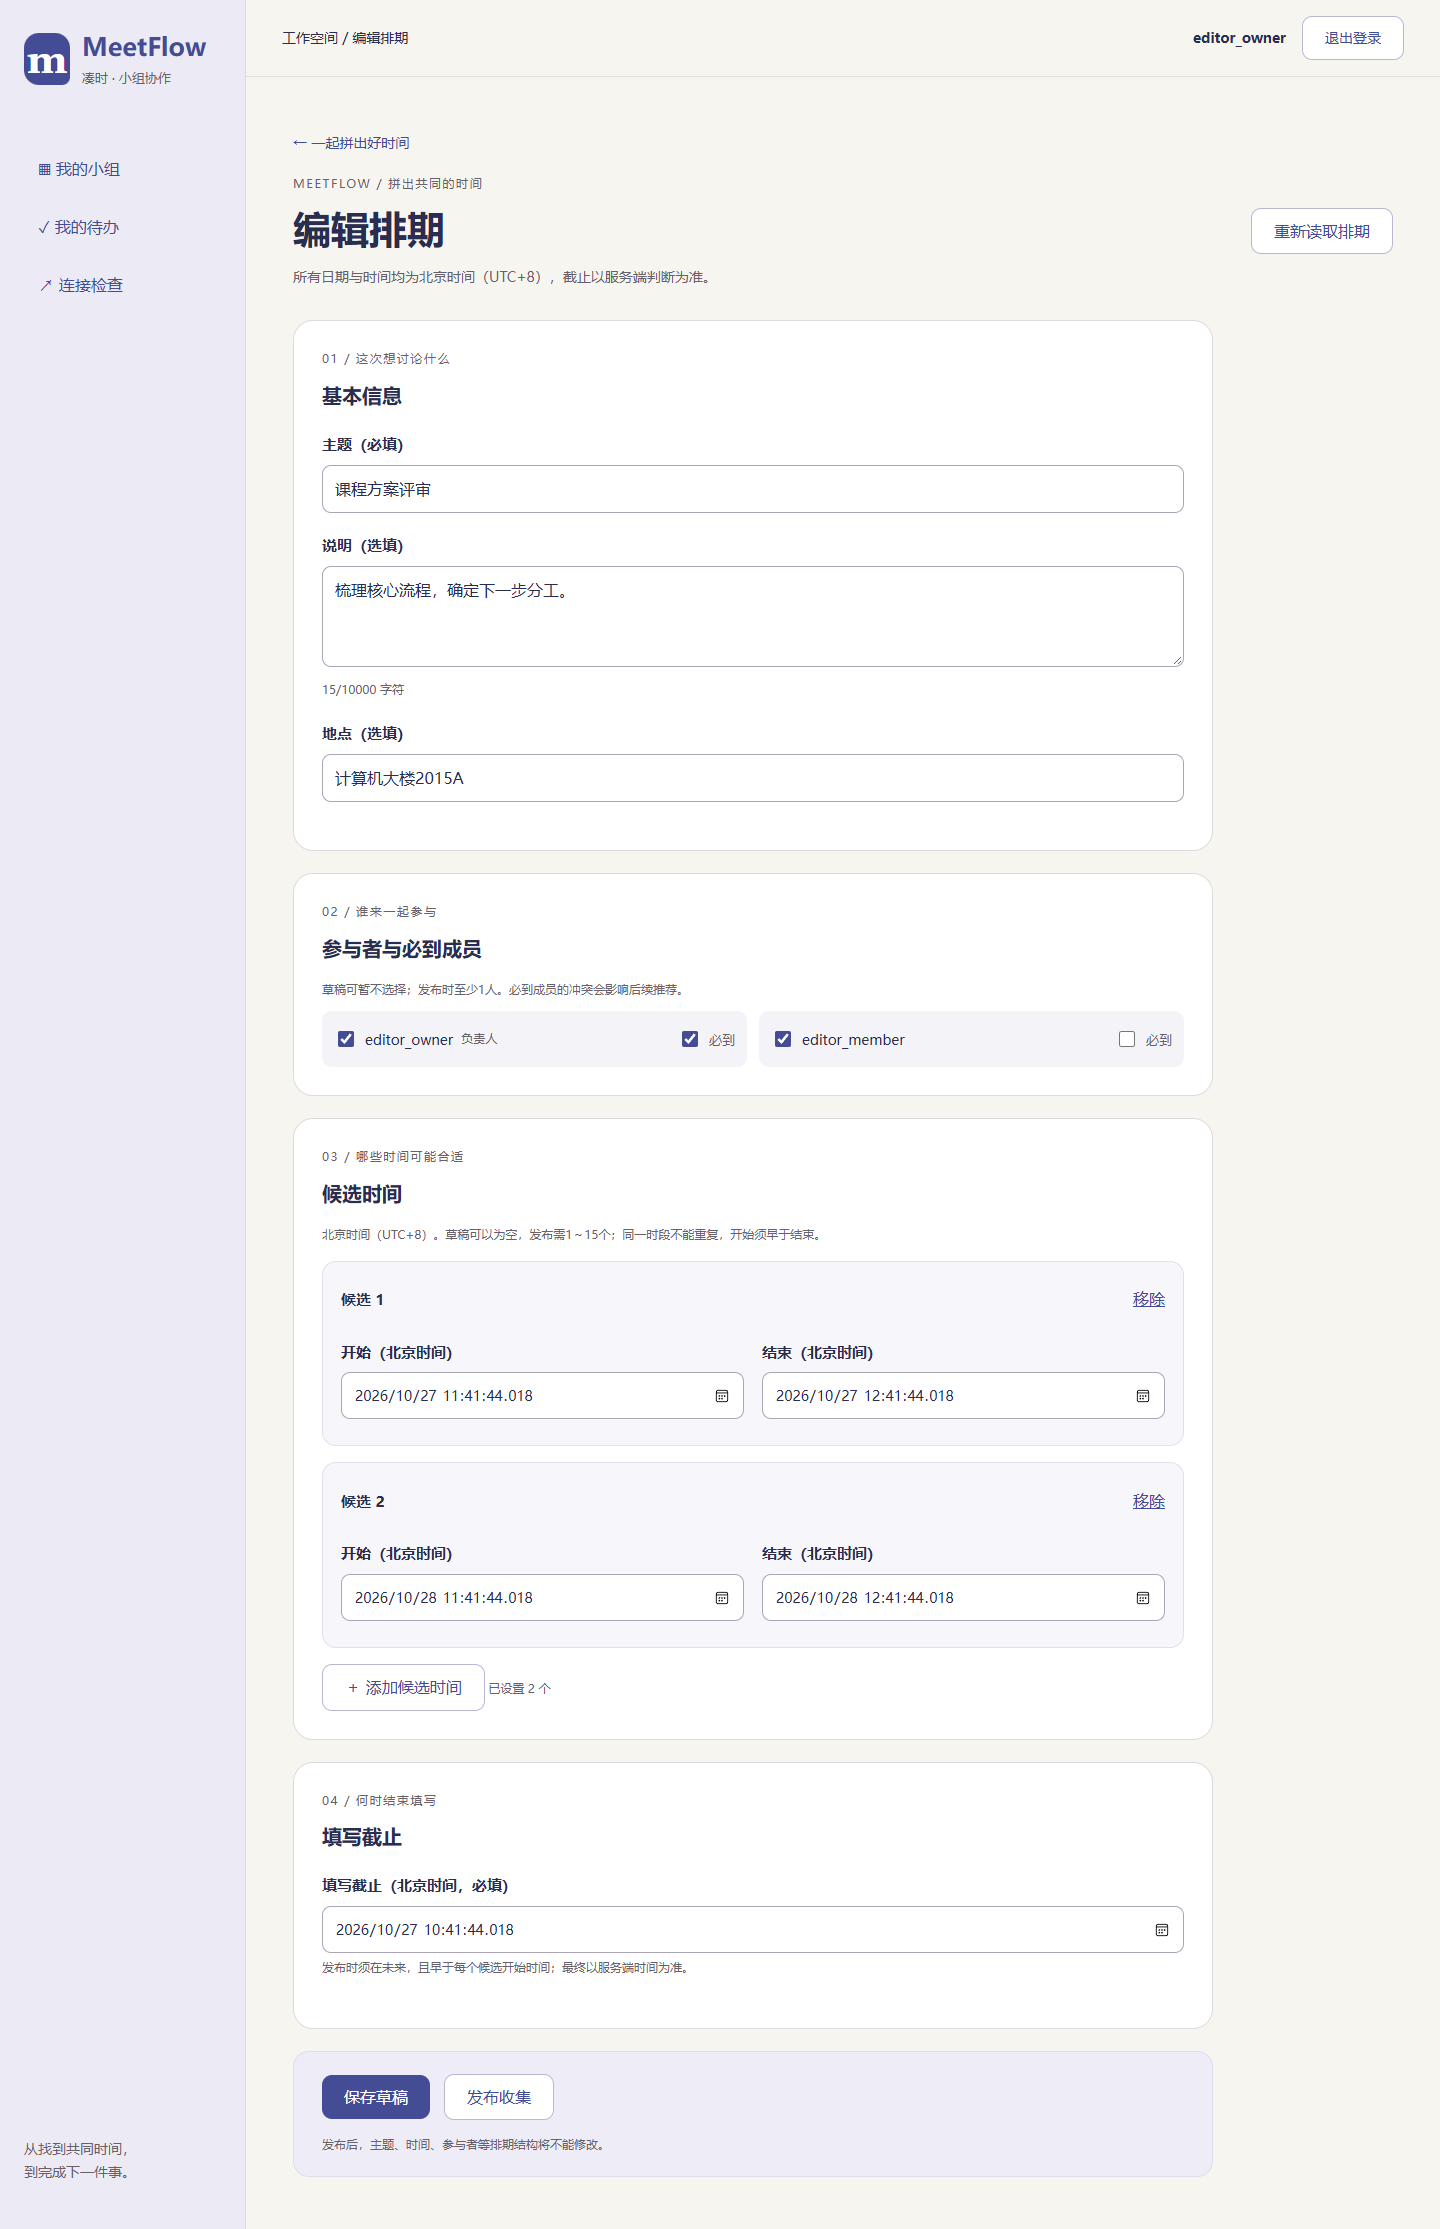
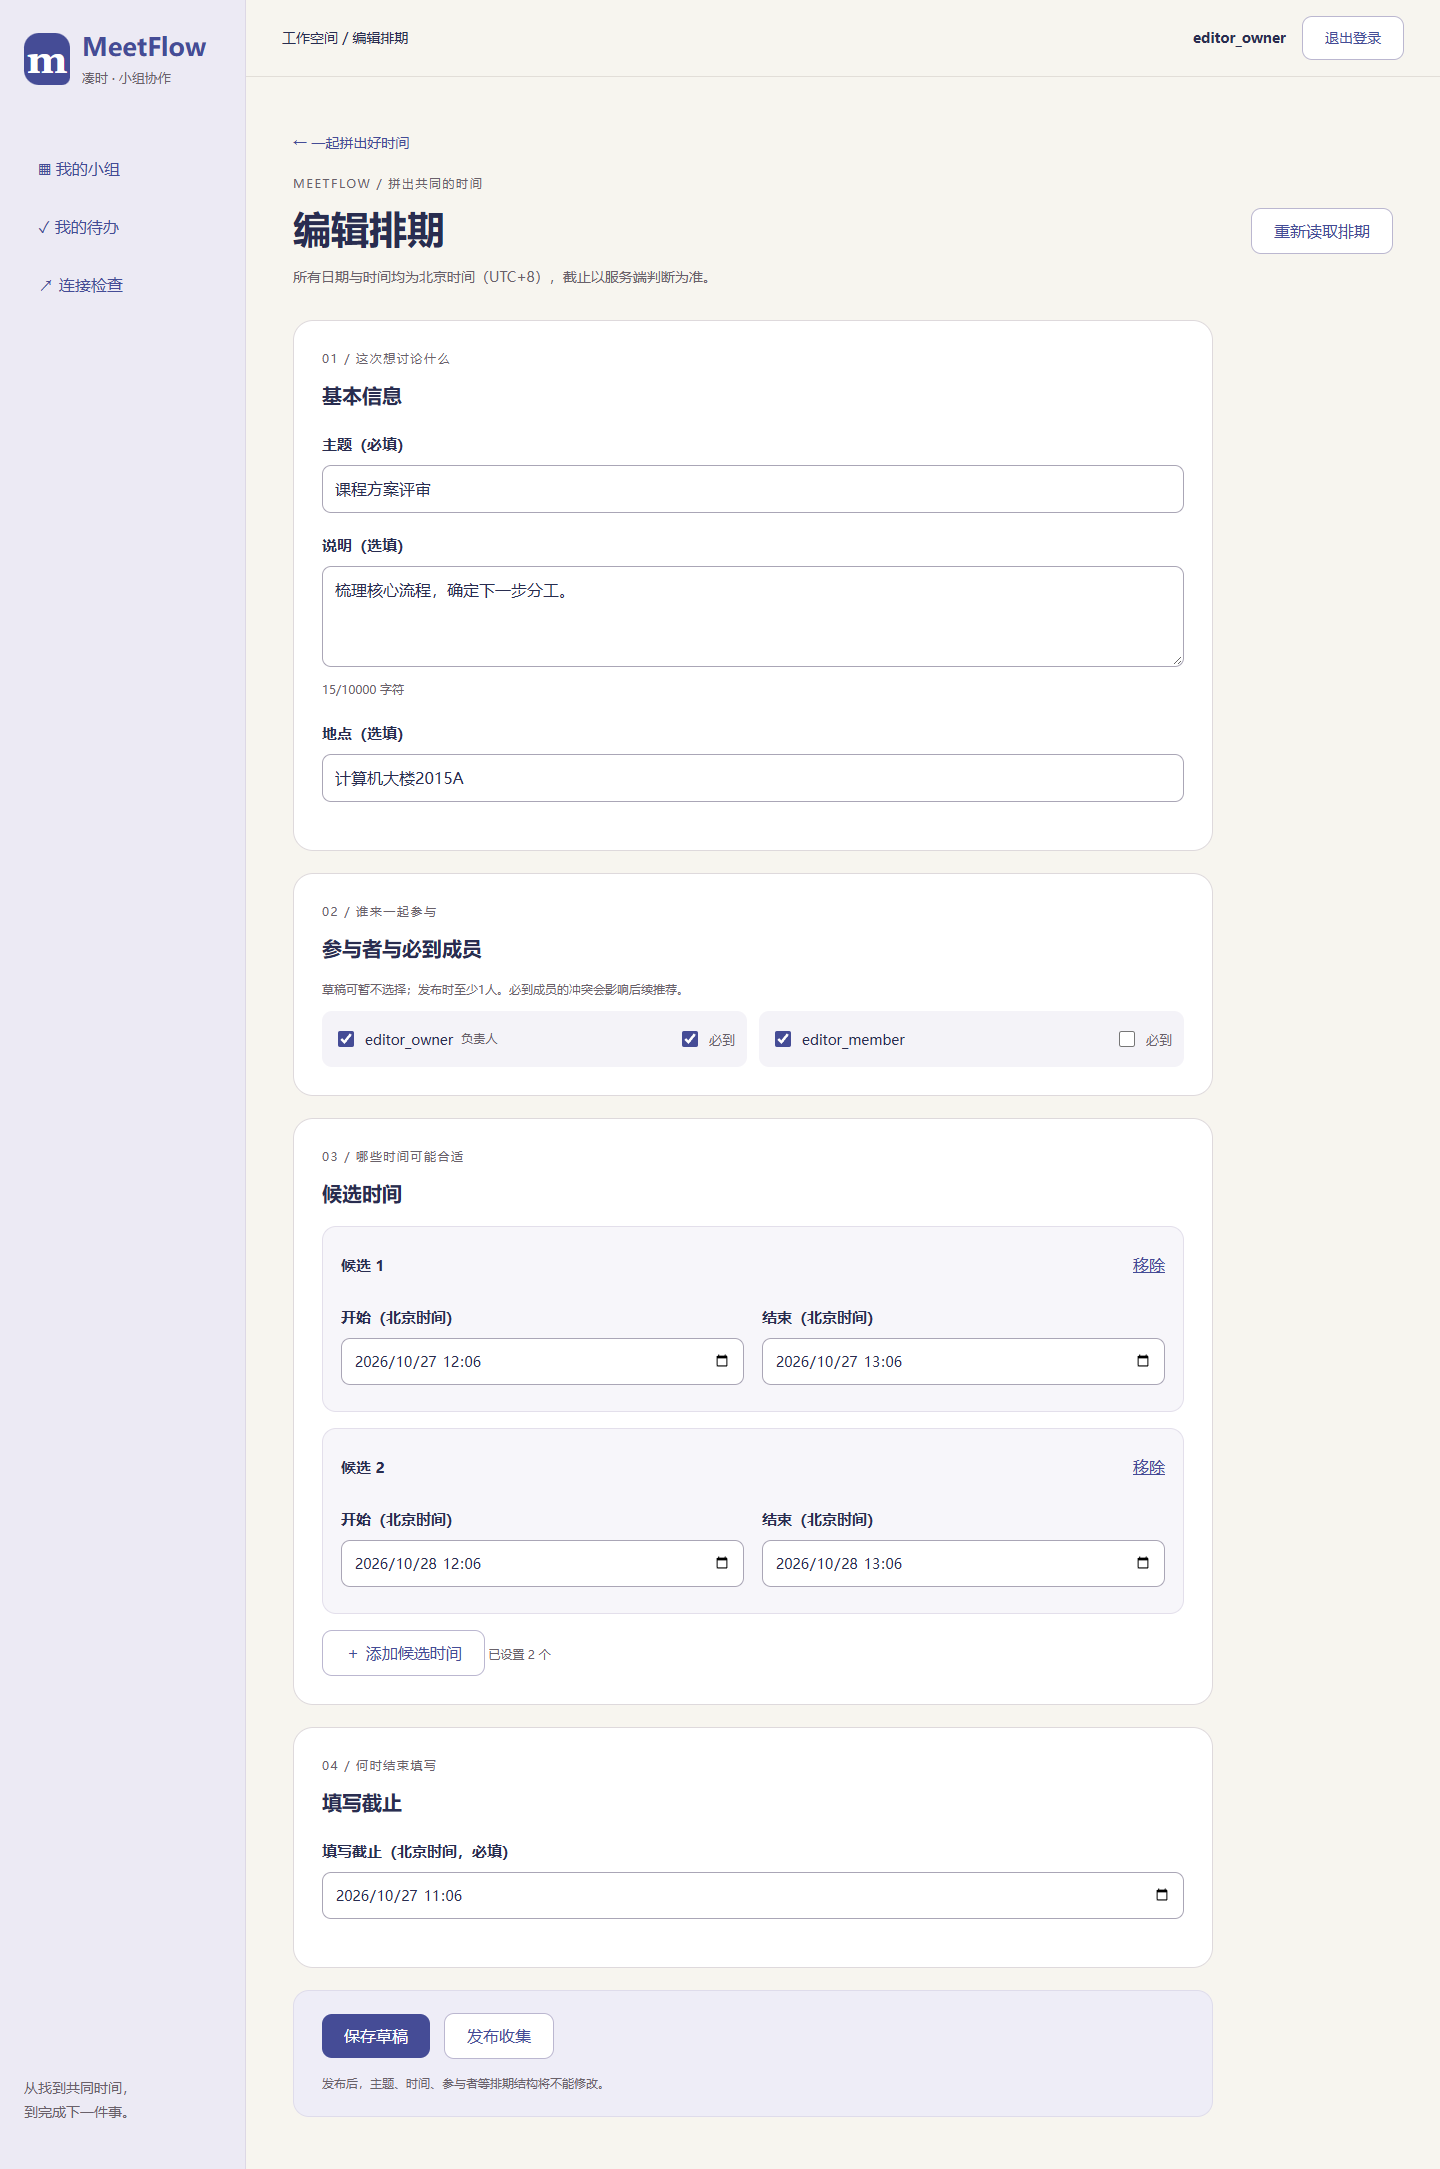
ui: simplify poll time feedback and use minute precision

diff --git a/Src/frontend/tests/poll-editor.test.ts b/Src/frontend/tests/poll-editor.test.ts
@@ -1,6 +1,6 @@
 import { afterEach, expect, it, vi } from 'vitest'
 import { pollsApi, type Poll } from '../src/polls/api'
-import { beijing, emptyFields, equivalent, fromPoll, localMs, payload, validate } from '../src/polls/editor'
+import { beijing, emptyFields, equivalent, fromPoll, localMs, payload, validate, timeFeedback } from '../src/polls/editor'
 
 const id = 'c07e357967c148068a4f9aa539c759e2'
 const poll: Poll = { id: 1, group_id: 2, title: '课程评审', description: '', location: '', response_deadline: '2026-10-28T00:00:00.000Z', status: 'DRAFT', effective_status: 'DRAFT', updated_at: '2026-10-27T00:00:00.000Z',
@@ -15,11 +15,42 @@ function mock(data: unknown) {
 }
 afterEach(() => vi.unstubAllGlobals())
 
-it('round trips UTC milliseconds through Beijing including cross-day', () => {
-  expect(beijing('2026-10-27T20:30:00.123Z')).toBe('2026-10-28T04:30:00.123')
+it('displays Beijing minutes across days while parsing legacy precise timestamps strictly', () => {
+  expect(beijing('2026-10-27T20:30:59.123Z')).toBe('2026-10-28T04:30')
   expect(localMs('2026-10-28T04:30:00.123')).toBe(Date.parse('2026-10-27T20:30:00.123Z'))
   expect(localMs('2026-10-28T08:00')).toBe(Date.parse(poll.response_deadline))
   expect(localMs('2026-10-28T08:00:00.1')).toBe(Date.parse('2026-10-28T00:00:00.100Z'))
+})
+it('hydrates legacy seconds to minute inputs without mutating the saved poll or weakening reconciliation', () => {
+  const legacy = { ...poll, response_deadline: '2026-10-28T00:00:59.600Z' }
+  const fields = fromPoll(legacy)
+  expect(fields.deadline).toBe('2026-10-28T08:00')
+  expect(payload(fields).response_deadline).toBe('2026-10-28T00:00:00.000Z')
+  expect(legacy.response_deadline).toBe('2026-10-28T00:00:59.600Z')
+  expect(equivalent(payload(fields), legacy)).toBe(false)
+})
+it('keeps untouched empty times quiet and validates a cleared field after interaction', () => {
+  expect(timeFeedback(emptyFields(), new Set(), 0)).toEqual({})
+  expect(timeFeedback(emptyFields(), new Set(['deadline']), 0)).toHaveProperty('deadline')
+  const fields = fromPoll(poll)
+  fields.slots.push({ key: 4, start: '', end: '' })
+  expect(timeFeedback(fields, new Set(), 0)).toEqual({})
+  expect(timeFeedback(fields, new Set(['end-4']), 0)).toHaveProperty('end-4')
+})
+it('automatically checks past cutoff, dependency changes, inverted times and duplicates without requiring publication', () => {
+  const fields = fromPoll(poll)
+  expect(timeFeedback(fields, new Set(), Date.parse(poll.response_deadline))).toHaveProperty('deadline')
+  fields.deadline = fields.slots[0]!.start
+  expect(timeFeedback(fields, new Set(), 0)).toHaveProperty('deadline', '填写截止须早于每个候选开始时间。')
+  expect(timeFeedback(fields, new Set(), 0)).toHaveProperty('start-0')
+  fields.deadline = '2026-10-28T08:00'
+  fields.slots[0]!.end = fields.slots[0]!.start
+  expect(timeFeedback(fields, new Set(), 0)).toHaveProperty('end-0')
+  fields.slots[0]!.end = '2026-10-28T10:00'
+  fields.slots.push({ ...fields.slots[0]!, key: 7 })
+  expect(timeFeedback(fields, new Set(), 0)).toHaveProperty('start-7', '候选时段不能重复。')
+  fields.slots.pop()
+  expect(timeFeedback(fields, new Set(), 0)).toEqual({})
 })
 it.each(['', '2026-02-30T08:00', '2026-13-01T08:00', '2026-10-28T24:00', '2026-10-28T08:00Z', '2026-10-28 08:00', '2026-10-28T08:00:00.1234'])('rejects invalid local date %s', value => {
   expect(Number.isNaN(localMs(value))).toBe(true)

diff --git a/Src/frontend/src/polls/editor.ts b/Src/frontend/src/polls/editor.ts
@@ -5,13 +5,14 @@ export type Fields = { title: string; description: string; location: string; dea
   participants: Draft['participants']; slots: Candidate[] }
 export type Errors = Record<string, string>
 export const emptyFields = (): Fields => ({ title: '', description: '', location: '', deadline: '', participants: [], slots: [] })
-export function beijing(value: string) { return new Date(Date.parse(value) + 8 * 3600_000).toISOString().slice(0, 23) }
+function preciseBeijing(value: string) { return new Date(Date.parse(value) + 8 * 3600_000).toISOString().slice(0, 23) }
+export function beijing(value: string) { return preciseBeijing(value).slice(0, 16) }
 export function localMs(value: string) {
   const match = /^(\d{4}-\d{2}-\d{2}T\d{2}:\d{2})(?::(\d{2})(?:\.(\d{1,3}))?)?$/.exec(value)
   if (!match) return NaN
   const canonical = `${match[1]}:${match[2] || '00'}.${(match[3] || '').padEnd(3, '0')}`
   const milliseconds = Date.parse(canonical + '+08:00')
-  return Number.isFinite(milliseconds) && beijing(new Date(milliseconds).toISOString()) === canonical ? milliseconds : NaN
+  return Number.isFinite(milliseconds) && preciseBeijing(new Date(milliseconds).toISOString()) === canonical ? milliseconds : NaN
 }
 export function fromPoll(poll: Poll): Fields {
   return { title: poll.title, description: poll.description, location: poll.location, deadline: beijing(poll.response_deadline),
@@ -45,6 +46,22 @@ export function validate(fields: Fields, publishing = false, now = Date.now()): 
     seen.add(pair)
   }
   return errors
+}
+export const isTimeField = (key: string) => key === 'deadline' || key === 'slots' || /^(start|end)-\d+$/.test(key)
+// Empty, untouched fields stay quiet; populated fields also check their dependencies.
+export function timeFeedback(fields: Fields, touched: ReadonlySet<string>, now = Date.now()): Errors {
+  const all = validate(fields, true, now), result: Errors = {}
+  const active = new Set(touched)
+  if (fields.deadline) active.add('deadline')
+  if (fields.slots.length > 15) active.add('slots')
+  for (const item of fields.slots) {
+    if (item.start) active.add(`start-${item.key}`)
+    if (item.end) active.add(`end-${item.key}`)
+  }
+  for (const key of active) if (isTimeField(key) && all[key]) result[key] = all[key]
+  const deadline = localMs(fields.deadline)
+  if (!result.deadline && fields.slots.some(item => localMs(item.start) <= deadline)) result.deadline = '填写截止须早于每个候选开始时间。'
+  return result
 }
 export function equivalent(draft: Draft, poll: Poll) {
   const normalized = (value: Draft) => JSON.stringify({ title: value.title.trim(), description: value.description, location: value.location,

diff --git a/Docs/27-负责人排期编辑与发布.md b/Docs/27-负责人排期编辑与发布.md
@@ -25,3 +25,11 @@
 | ![编辑页](images/t16/03-editor.png) | ![发布后](images/t16/04-published.png) | ![小组排期](images/t16/05-group-polls.png) |
 
 下一项T17实现本人全量投票接口，T18再接空闲状态填写页；本轮发布状态可验证，不表示成员投票、推荐、会议或完整产品验收已完成。
+
+## 时间输入调整（2026-10-27）
+
+移除候选时间和填写截止下方的常驻规则备注。时间输入停顿450毫秒或离开输入框后，在对应字段下方以红字提示无效日期、结束不晚于开始、重复时段、过去的截止及截止不早于候选开始等问题；未操作的空字段不提前报错，保存草稿仍允许暂缺候选和参与者，发布时检查完整规则。
+
+输入框、重新载入的草稿和只读详情统一显示到分钟。旧数据中的秒和毫秒不会因查看而改写，主动保存编辑后的时间按分钟提交；服务端时间格式与最终发布校验保持不变。
+
+本次验证：155项前端测试、TypeScript/Vite构建、32项仓库检查，以及Chrome、Edge正式构建的排期流程检查通过。浏览器覆盖不提交即出现的红字提示、修改依赖时间后重新校验、分钟精度、保存重载及发布只读；后端未改动。
